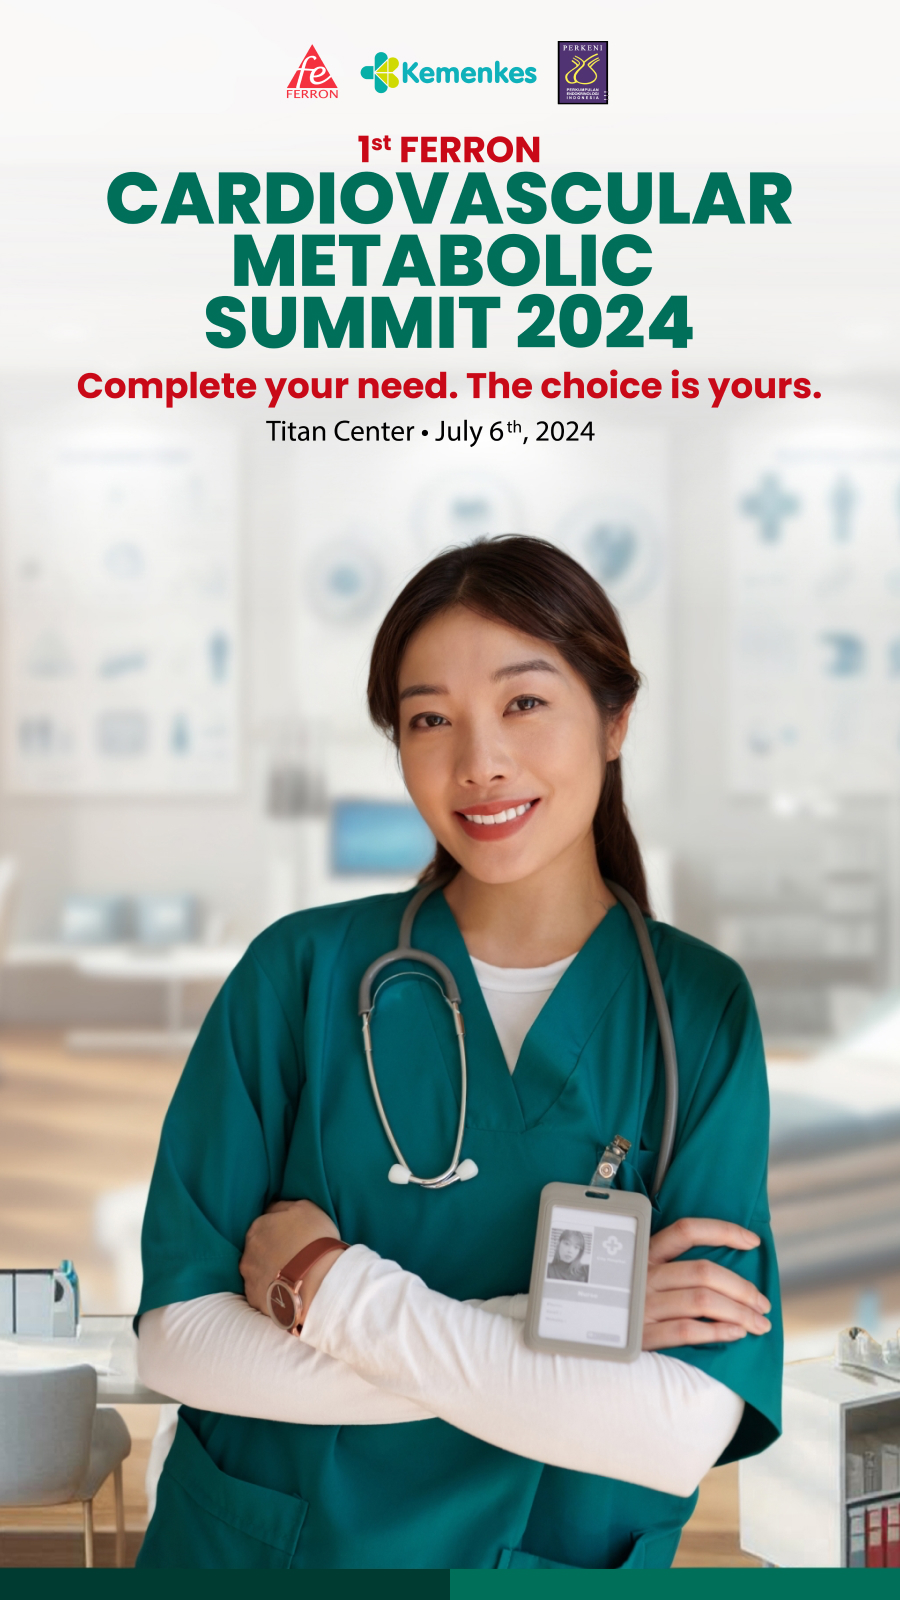
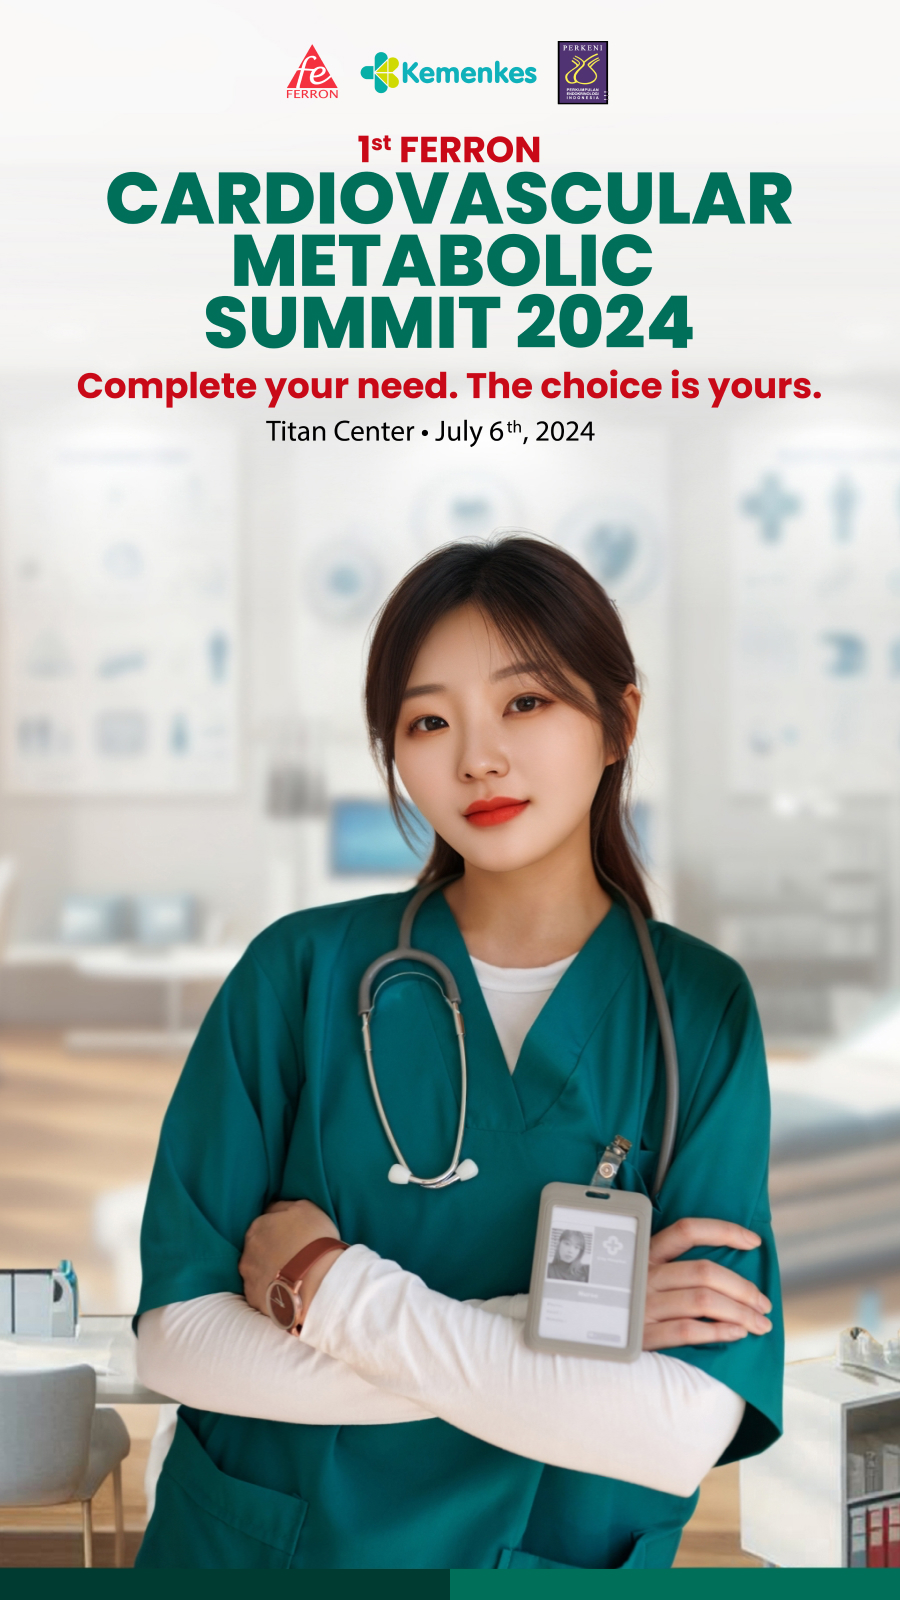
upd cewek

diff --git a/app/ferron/generate/page.js b/app/ferron/generate/page.js
@@ -290,7 +290,7 @@ export default function GenerateAmero() {
                                     />
                                     </label>
                                 </li>
-                                <li>
+                                {/* <li>
                                     <input
                                     id='choose_gender3'
                                     type="radio"
@@ -308,7 +308,7 @@ export default function GenerateAmero() {
                                         priority
                                     />
                                     </label>
-                                </li>
+                                </li> */}
                             </ul>
                         </div>
                     </div>

diff --git a/app/manifest.js b/app/manifest.js
@@ -3,7 +3,7 @@ export default function manifest() {
       name: 'AI PHOTOBOOTH',
       short_name: 'AI PHOTOBOOTH',
       description: 'AI PHOTOBOOTH',
-      start_url: '/dexa',
+      start_url: '/ferron',
       display: 'standalone',
       background_color: '#fff',
       theme_color: '#fff',
